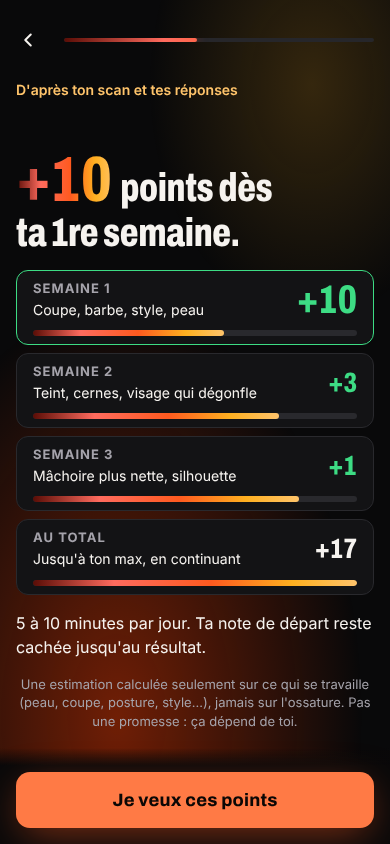
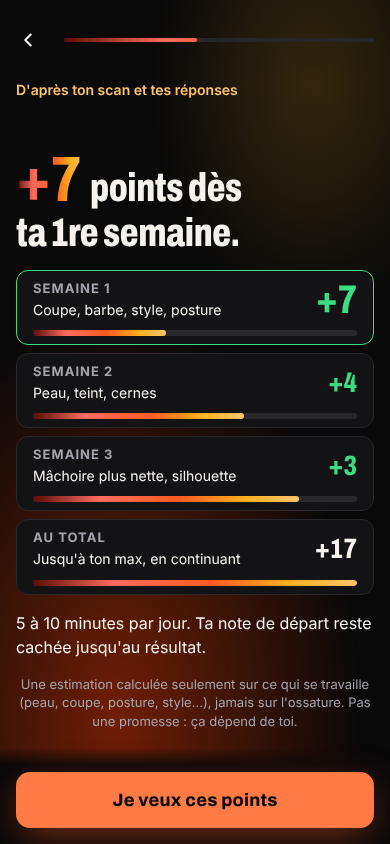
Progression : semaine 1 coupe, barbe, style, posture, puis ça descend (+7, +4, +3)
Claude-Session: https://claude.ai/code/session_014jgUVVEcSY5o2hZDxT4Svp

diff --git a/src/q/app.js b/src/q/app.js
@@ -293,7 +293,7 @@ const VIEWS = {
       <p class="eyebrow">D'après ton scan et tes réponses</p>
       <h1 class="title title--hero" tabindex="-1">${earlyOk(t) ? `<span class="big-gain">+${esc(t.early[0])}</span> point${t.early[0] > 1 ? "s" : ""} dès ta 1re semaine.` : `<span class="big-gain">+${esc(t.gain)}</span> point${t.gain > 1 ? "s" : ""} à gagner.`}</h1>
       ${earlyOk(t) ? `<ol class="climb" aria-label="Ta progression estimée">
-        ${[["Semaine 1", `Coupe, ${S.answers.genre === "femme" ? "sourcils" : "barbe"}, style, peau`], ["Semaine 2", "Teint, cernes, visage qui dégonfle"], ["Semaine 3", "Mâchoire plus nette, silhouette"]].map(([when, what], k) => `<li class="climb__step${k ? "" : " climb__step--first"}"><span class="climb__when">${when}</span><b class="climb__pts">+${esc(t.early[k] - (k ? t.early[k - 1] : 0))}</b><span class="climb__what">${what}</span><i class="climb__bar" style="--w:${Math.max(12, Math.round((100 * t.early[k]) / t.gain))}%;--d:${k * 0.25}s"></i></li>`).join("")}
+        ${[["Semaine 1", `Coupe, ${S.answers.genre === "femme" ? "sourcils" : "barbe"}, style, posture`], ["Semaine 2", "Peau, teint, cernes"], ["Semaine 3", "Mâchoire plus nette, silhouette"]].map(([when, what], k) => `<li class="climb__step${k ? "" : " climb__step--first"}"><span class="climb__when">${when}</span><b class="climb__pts">+${esc(t.early[k] - (k ? t.early[k - 1] : 0))}</b><span class="climb__what">${what}</span><i class="climb__bar" style="--w:${Math.max(12, Math.round((100 * t.early[k]) / t.gain))}%;--d:${k * 0.25}s"></i></li>`).join("")}
         <li class="climb__step climb__step--max"><span class="climb__when">Au total</span><b class="climb__pts">+${esc(t.gain)}</b><span class="climb__what">Jusqu'à ton max, en continuant</span><i class="climb__bar" style="--w:100%;--d:.75s"></i></li>
       </ol>` : ""}
       <p class="lead">5 à 10 minutes par jour. Ta note de départ reste cachée jusqu'au résultat.</p>

diff --git a/src/shared/factors.js b/src/shared/factors.js
@@ -45,15 +45,15 @@ export function potential(scores) {
   return Math.max(overall(scores), Math.min(95, overall(raised(scores))));
 }
 
-// Les 3 premiers paliers, cumulés (décidé par Maël le 28/11/2026 : le plus gros résultat dès la 1re semaine, puis ça continue) :
-// semaine 1 : ce qui change en quelques jours : vêtements, posture, coupe, barbe ou sourcils, et la moitié de ce que
-//             la peau, le teint et les cernes peuvent gagner (routine, eau, sommeil) ;
-// semaine 2 : + peau, teint et cernes à 85 %, mâchoire à moitié (sel, sucre : visage qui dégonfle), silhouette au quart ;
-// semaine 3 : + peau, teint et cernes en entier, mâchoire aux trois quarts, silhouette à moitié.
+// Les 3 premiers paliers, cumulés (décidé par Maël le 28/11/2026 : le plus gros chiffre en semaine 1, puis ça descend, ex. +7, +4, +3) :
+// semaine 1 : ce qui change en une journée : vêtements, posture, coupe, barbe ou sourcils ;
+// semaine 2 : + 60 % de ce que la peau, le teint et les cernes peuvent gagner, mâchoire au quart (visage qui dégonfle) ;
+// semaine 3 : + peau, teint et cernes en entier, mâchoire à moitié, silhouette à 40 %.
+const FAST = { tenue: 1, posture: 1, coiffure: 1, pilosite: 1 };
 const STEPS = [
-  { tenue: 1, posture: 1, coiffure: 1, pilosite: 1, peau_qualite: 0.5, peau_teint: 0.5, yeux: 0.5 },
-  { tenue: 1, posture: 1, coiffure: 1, pilosite: 1, peau_qualite: 0.85, peau_teint: 0.85, yeux: 0.85, machoire: 0.5, corps: 0.25 },
-  { tenue: 1, posture: 1, coiffure: 1, pilosite: 1, peau_qualite: 1, peau_teint: 1, yeux: 1, machoire: 0.75, corps: 0.5 },
+  FAST,
+  { ...FAST, peau_qualite: 0.6, peau_teint: 0.6, yeux: 0.6, machoire: 0.25 },
+  { ...FAST, peau_qualite: 1, peau_teint: 1, yeux: 1, machoire: 0.5, corps: 0.4 },
 ];
 export function earlyGains(scores) {
   const now = overall(scores), max = potential(scores);
